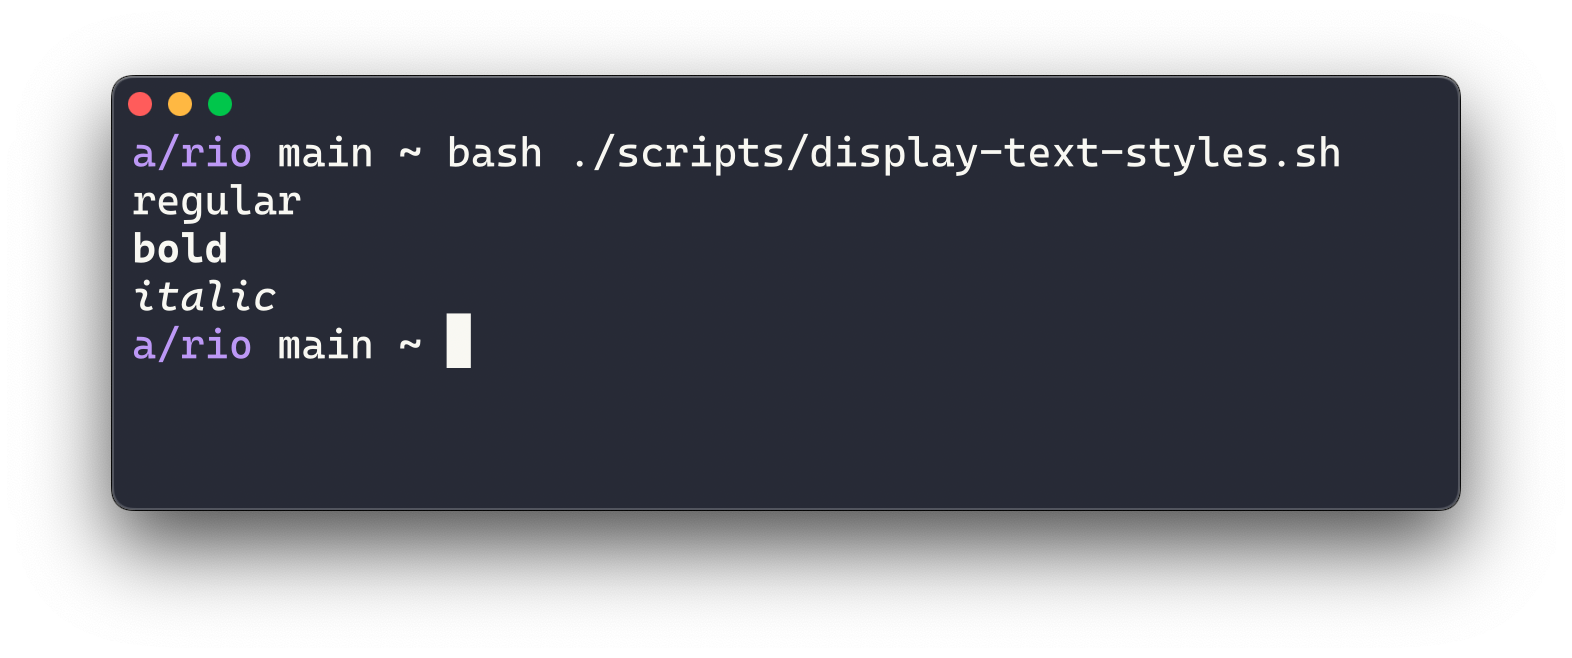
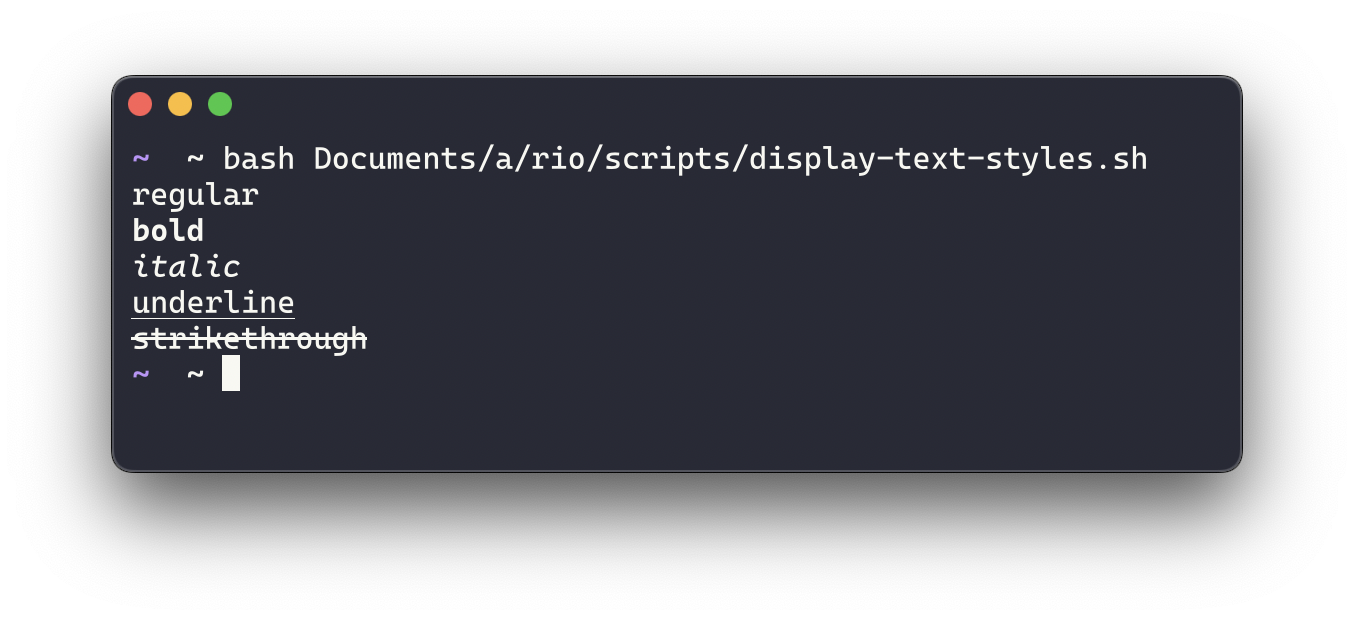
implementation of test style (underline and striketrough), closes #79

Changed region(s): [[0.062, 0.0919, 0.9616, 0.8274]]

diff --git a/rio/src/screen/state.rs b/rio/src/screen/state.rs
@@ -202,12 +202,27 @@ impl State {
             });
         }
 
+        let mut decoration = None;
+        if flags.contains(Flags::UNDERLINE) {
+            decoration = Some(SugarDecoration {
+                position: (0.0, 0.95),
+                size: (1.0, 0.05),
+                color: self.named_colors.foreground,
+            });
+        } else if flags.contains(Flags::STRIKEOUT) {
+            decoration = Some(SugarDecoration {
+                position: (0.0, 0.5),
+                size: (1.0, 0.05),
+                color: self.named_colors.foreground,
+            });
+        }
+
         Sugar {
             content,
             foreground_color,
             background_color,
             style,
-            decoration: None,
+            decoration,
         }
     }
 
